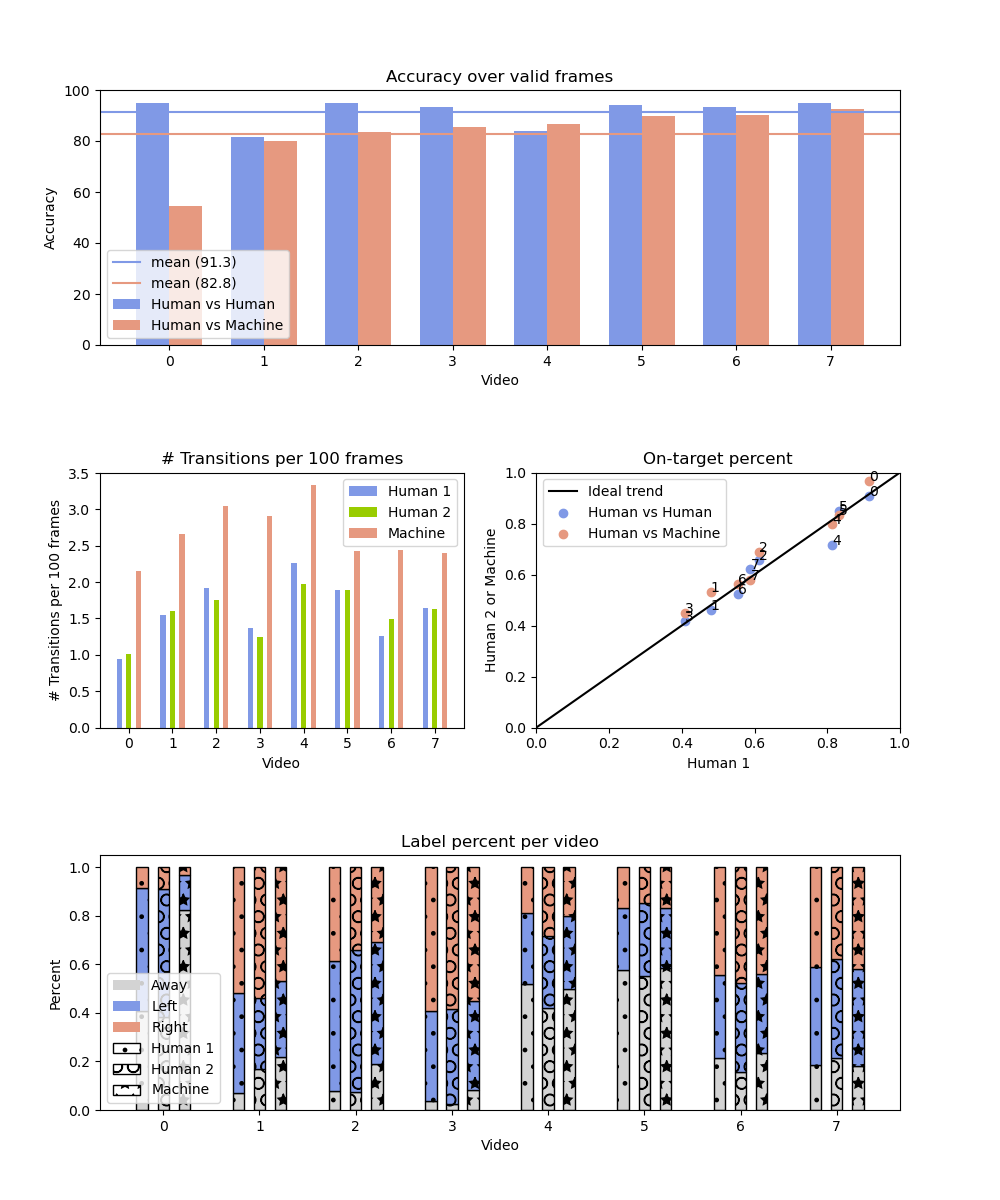
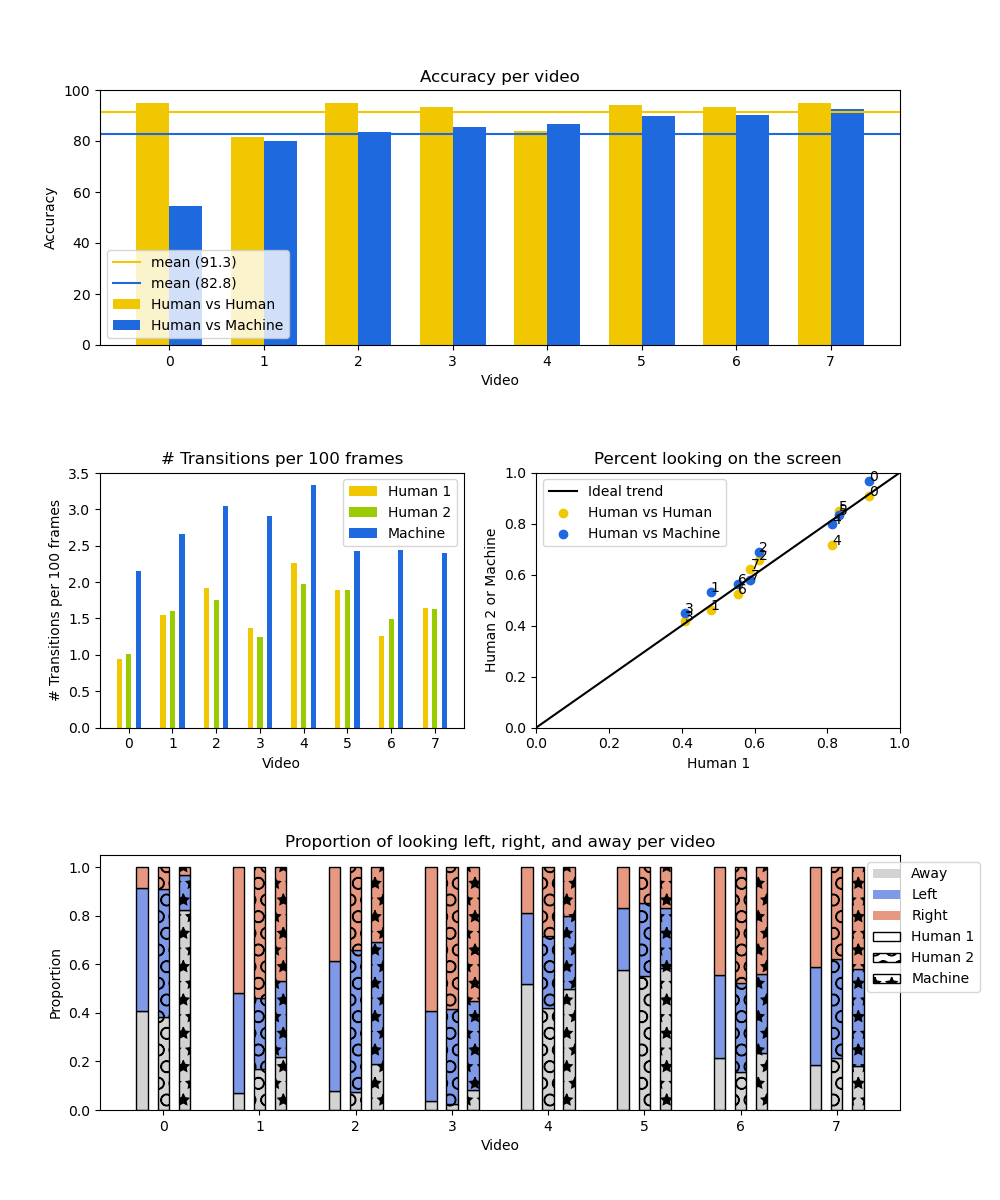
upgraded visualizations

diff --git a/visualize.py b/visualize.py
@@ -24,7 +24,10 @@ def label_to_color(label):
                "invalid": "white",
                "lblue": (0.5, 0.6, 0.9),
                "lred": (0.9, 0.6, 0.5),
-               "lgreen": (0.6, 0.8, 0.0)}
+               "lgreen": (0.6, 0.8, 0.0),
+               "lorange": (0.94, 0.78, 0.0),
+               "lyellow": (0.9, 0.9, 0.0),
+               "mblue": (0.12, 0.41, 0.87)}
     return mapping[label]
 
 
@@ -437,16 +440,16 @@ def generate_collage_plot(sorted_IDs, all_metrics, save_path):
     labels = sorted_IDs
     width = 0.35  # the width of the bars
     x = np.arange(len(labels))
-    accuracy_bar.bar(x - width / 2, accuracies_hvh, width, color=label_to_color("lblue"), label='Human vs Human')
-    accuracy_bar.bar(x + width / 2, accuracies_hvm, width, color=label_to_color("lred"), label='Human vs Machine')
+    accuracy_bar.bar(x - width / 2, accuracies_hvh, width, color=label_to_color("lorange"), label='Human vs Human')
+    accuracy_bar.bar(x + width / 2, accuracies_hvm, width, color=label_to_color("mblue"), label='Human vs Machine')
     accuracy_bar.set_ylabel('Accuracy')
     accuracy_bar.set_xlabel('Video')
-    accuracy_bar.set_title('Accuracy over valid frames')
+    accuracy_bar.set_title('Accuracy per video')
     accuracy_bar.set_xticks(x)
     # accuracy_bar.bar_label(rects1, padding=3)
     # accuracy_bar.bar_label(rects2, padding=3)
-    accuracy_bar.axhline(y=mean_hvh, color=label_to_color("lblue"), linestyle='-', label="mean (" + str(mean_hvh)[:4] + ")")
-    accuracy_bar.axhline(y=mean_hvm, color=label_to_color("lred"), linestyle='-', label="mean (" + str(mean_hvm)[:4] + ")")
+    accuracy_bar.axhline(y=mean_hvh, color=label_to_color("lorange"), linestyle='-', label="mean (" + str(mean_hvh)[:4] + ")")
+    accuracy_bar.axhline(y=mean_hvm, color=label_to_color("mblue"), linestyle='-', label="mean (" + str(mean_hvm)[:4] + ")")
     accuracy_bar.set_ylim([0, 100])
     accuracy_bar.legend()
 
@@ -466,9 +469,9 @@ def generate_collage_plot(sorted_IDs, all_metrics, save_path):
     transitions_m = [100*all_metrics[ID]["human1_vs_machine"]['total_transitions_coding2'] /
                           all_metrics[ID]["human1_vs_machine"]['num_coding2_valid'] for ID in sorted_IDs]
 
-    transitions_bar.bar(x - width / 3, transitions_h1, width=(width / 3) - 0.1, label="Human 1", color=label_to_color("lblue"))
+    transitions_bar.bar(x - width / 3, transitions_h1, width=(width / 3) - 0.1, label="Human 1", color=label_to_color("lorange"))
     transitions_bar.bar(x, transitions_h2, width=(width / 3) - 0.1, label="Human 2", color=label_to_color("lgreen"))
-    transitions_bar.bar(x + width / 3, transitions_m, width=(width / 3) - 0.1, label="Machine", color=label_to_color("lred"))
+    transitions_bar.bar(x + width / 3, transitions_m, width=(width / 3) - 0.1, label="Machine", color=label_to_color("mblue"))
     transitions_bar.set_xticks(x)
     transitions_bar.set_title('# Transitions per 100 frames')
     transitions_bar.legend()
@@ -485,15 +488,15 @@ def generate_collage_plot(sorted_IDs, all_metrics, save_path):
     y_target_away_hvh = [all_metrics[ID]["human1_vs_human2"]['coding2_on_vs_away'] for ID in sorted_IDs]
     x_target_away_hvm = [all_metrics[ID]["human1_vs_machine"]['coding1_on_vs_away'] for ID in sorted_IDs]
     y_target_away_hvm = [all_metrics[ID]["human1_vs_machine"]['coding2_on_vs_away'] for ID in sorted_IDs]
-    on_away_scatter.scatter(x_target_away_hvh, y_target_away_hvh, color=label_to_color("lblue"), label='Human vs Human')
+    on_away_scatter.scatter(x_target_away_hvh, y_target_away_hvh, color=label_to_color("lorange"), label='Human vs Human')
     for i in range(len(sorted_IDs)):
         on_away_scatter.annotate(i, (x_target_away_hvh[i], y_target_away_hvh[i]))
-    on_away_scatter.scatter(x_target_away_hvm, y_target_away_hvm, color=label_to_color("lred"), label='Human vs Machine')
+    on_away_scatter.scatter(x_target_away_hvm, y_target_away_hvm, color=label_to_color("mblue"), label='Human vs Machine')
     for i in range(len(sorted_IDs)):
         on_away_scatter.annotate(i, (x_target_away_hvm[i], y_target_away_hvm[i]))
     on_away_scatter.set_xlabel("Human 1")
     on_away_scatter.set_ylabel("Human 2 or Machine")
-    on_away_scatter.set_title("On-target percent")
+    on_away_scatter.set_title("Percent looking on the screen")
     on_away_scatter.legend()
 
     # label distribution plot
@@ -528,7 +531,7 @@ def generate_collage_plot(sorted_IDs, all_metrics, save_path):
     bottoms_h2 = np.zeros(shape=(len(sorted_IDs)))
     bottoms_m = np.zeros(shape=(len(sorted_IDs)))
     width = 0.66
-    patterns = [".", "O", "*"]
+    patterns = [None, "O", "*"]
     for i, label in enumerate(sorted(classes.keys())):
         label_counts_h1 = [y[i] / sum(y) for y in [all_metrics[ID]["human1_vs_human2"]['coding1_by_label'] for ID in sorted_IDs]]
         label_counts_h2 = [y[i] / sum(y) for y in [all_metrics[ID]["human1_vs_human2"]['coding2_by_label'] for ID in sorted_IDs]]
@@ -548,14 +551,14 @@ def generate_collage_plot(sorted_IDs, all_metrics, save_path):
                        Patch(facecolor="white", edgecolor='black', hatch=patterns[0], label="Human 1"),
                        Patch(facecolor="white", edgecolor='black', hatch=patterns[1], label="Human 2"),
                        Patch(facecolor="white", edgecolor='black', hatch=patterns[2], label="Machine")]
-            label_bar.legend(handles=artists)
+            label_bar.legend(handles=artists, bbox_to_anchor=(0.95, 1.0), loc='upper left')
         bottoms_h1 += label_counts_h1
         bottoms_h2 += label_counts_h2
         bottoms_m += label_counts_m
     label_bar.xaxis.set_major_locator(MultipleLocator(1))
     label_bar.set_xticks(ticks)
-    label_bar.set_title('Label percent per video')
-    label_bar.set_ylabel('Percent')
+    label_bar.set_title('Proportion of looking left, right, and away per video')
+    label_bar.set_ylabel('Proportion')
     label_bar.set_xlabel('Video')
 
     plt.subplots_adjust(left=0.1, bottom=0.075, right=0.9, top=0.925, wspace=0.2, hspace=0.5)
